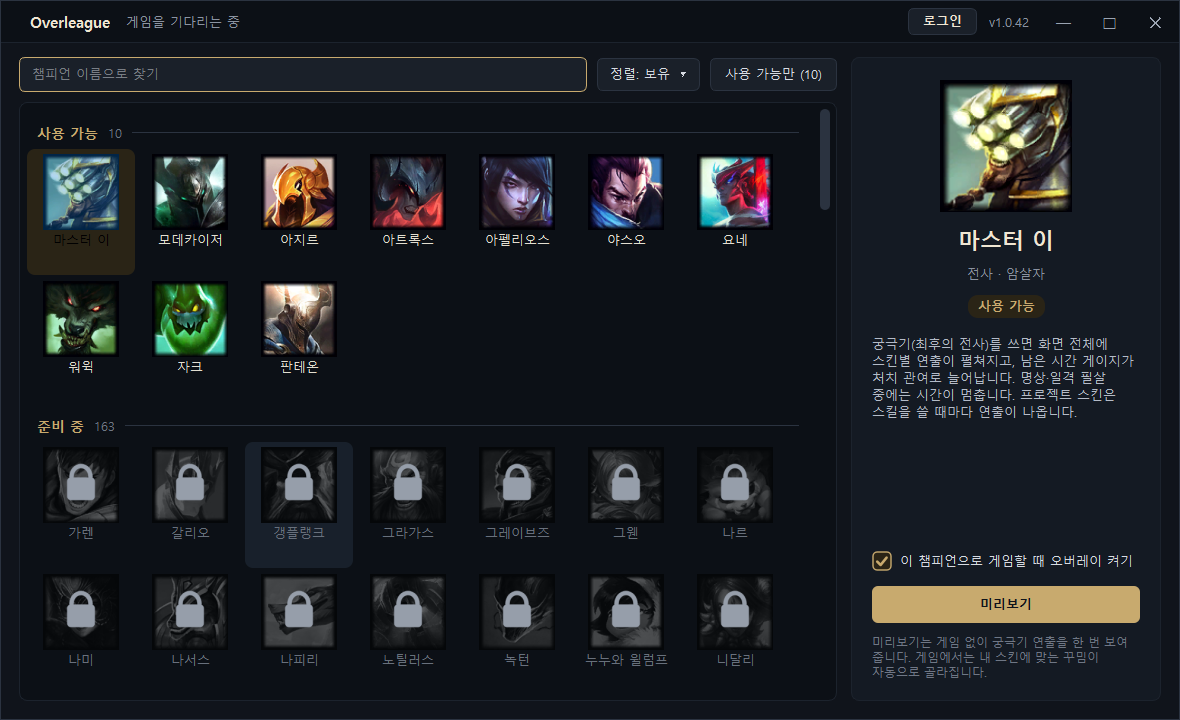
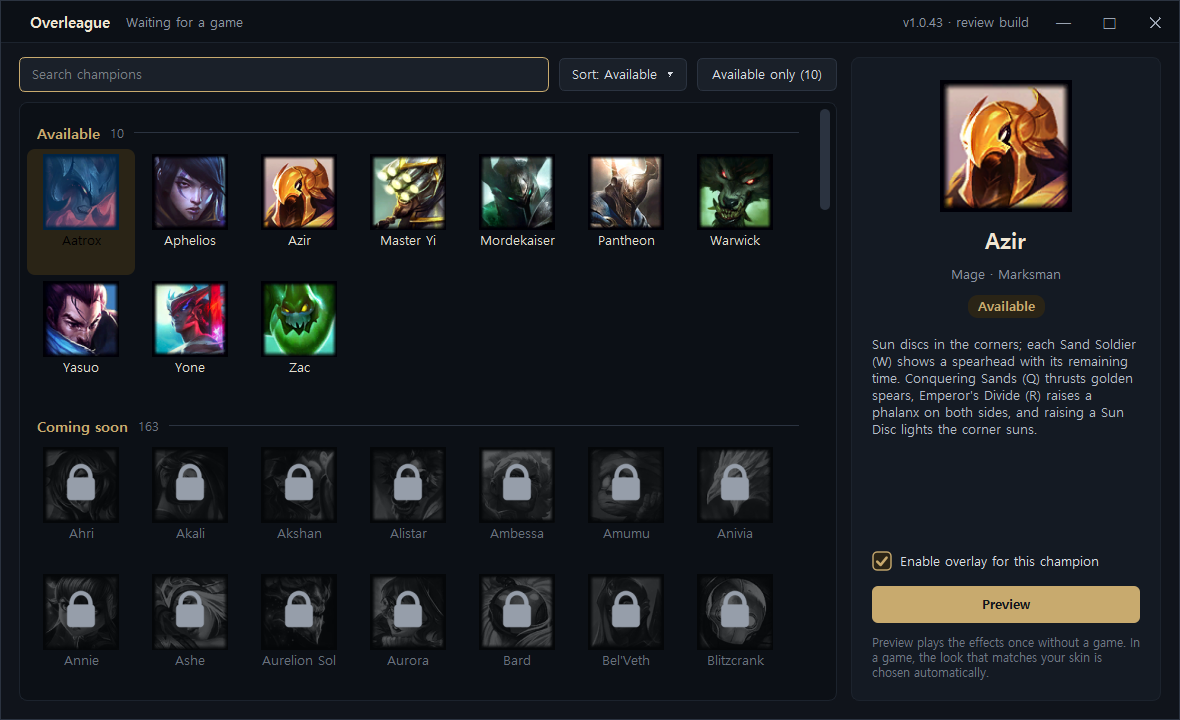
Rewrite description to match the app; add English review build

diff --git a/README.md b/README.md
@@ -2,29 +2,41 @@
 
 **Cosmetic, champion-themed screen effects for League of Legends (Windows desktop app).**
 
-When you cast an ability or your ultimate, Overleague plays a short themed animation along the **edges and corners** of your own screen. It is decoration only: it never covers the middle of the screen, never shows information about other players, and never touches the game.
+When you cast an ability or your ultimate, Overleague plays a short themed animation on your own screen, matched to your champion and skin. It is decoration: it does not read or change the game, does not send input, and does not look for other players on your screen.
+
+Ten champions are available today. **Every champion is planned**; the rest are shown as locked in the app until their effects are made.
 
 > Overleague isn't endorsed by Riot Games and doesn't reflect the views or opinions of Riot Games or anyone officially involved in producing or managing Riot Games properties. Riot Games, and all associated properties are trademarks or registered trademarks of Riot Games, Inc.
 
 ---
+
+## Try it (review build, English, no sign-in)
+
+1. Download **[OverleagueReview.exe](https://github.com/freeiam1125-glitch/champion-overlay/raw/review/OverleagueReview.exe)** (about 25 MB, single file).
+2. Run it. It runs from wherever you saved it: nothing is installed, there is no sign-in, and it does not update itself. It creates a few small settings/log files next to the exe. Closing the window leaves it in the system tray; choose **Quit** there to stop it.
+3. Pick an available champion and press **Preview** to see its effects without a game, or start a game (Practice Tool works) on that champion.
+
+Windows SmartScreen may warn that the file is unrecognised because it is not code-signed yet.
+
+The review build is the same program as the regular build with three differences: the window is in English, it is open to everyone, and it has no installer or auto-updater. The regular build is in Korean and, while in closed testing, only turns on for testers on an allow-list.
 
 ## At a glance
 
 | | |
 |---|---|
 | Platform | Windows 10 / 11, single `.exe` |
-| Game | League of Legends (Summoner's Rift and other modes that expose the Live Client Data API) |
+| Game | League of Legends |
 | Price | Free (closed testing with a small group) |
-| Data source | Riot **Live Client Data API** on the local machine, plus plain screen captures of the player's own ability bar |
-| Game memory / files / input | **Not accessed, not modified, not sent** |
-| Information about enemies | **None located on screen, none added to the screen** |
-| Network | Only GitHub, to check for updates and the tester allow-list. No player data is uploaded. |
+| Data sources | Riot **Live Client Data API** on the local machine; plain screen captures of the player's **own** ability bar and own name plate |
+| Game memory / game files / input to the game | **Not read, not modified, not sent** |
+| Enemy champions | **Not searched for on screen.** No positions, health, cooldowns or timers of other players are shown |
+| Network | Local Live Client Data API; public icon downloads; (regular build only) GitHub for updates and the tester allow-list. No player data is uploaded |
 
 ## What it looks like
 
-The pictures below are rendered by the app's own preview (no game running). The dark area stands in for the game view.
+The pictures below are rendered by the app's own preview with no game running. The dark area stands in for the game view.
 
-**Idle** – small corner ornaments, and for some champions a gauge of the player's *own* resource.
+**Idle** – small corner ornaments, and for some champions a gauge of the player's own resource.
 
 ![Idle state](docs/effect_idle.png)
 
@@ -38,60 +50,66 @@ The pictures below are rendered by the app's own preview (no game running). The 
 
 ![Azir – Emperor's Divide](docs/effect_azir.png)
 
-**The desktop window** – choose which champions' effects are on, and preview them without a game. (The UI is currently in Korean.)
+**The desktop window** – choose which champions' effects are on, and preview them without a game.
 
 ![App window](docs/app_window.png)
 
+### Where on the screen
+
+- **Aatrox, Aphelios, Azir, Pantheon, Warwick, Yasuo, Yone, Zac:** effects are drawn only along the edges, the corners and a thin strip at the top. The middle of the screen is left clear.
+- **Master Yi and Mordekaiser** (the first two that were made): during the ultimate they draw a translucent full-screen frame — a vignette that is strongest at the edges, with light streaks and particles that can pass over the play area. Nothing opaque is placed over the middle.
+
 ## Supported champions
 
-Aatrox, Aphelios, Azir, Master Yi, Mordekaiser, Pantheon, Warwick, Yasuo, Yone, Zac — each with variants that follow the player's current skin. Other champions are listed but locked until their effects are made.
+Aatrox, Aphelios, Azir, Master Yi, Mordekaiser, Pantheon, Warwick, Yasuo, Yone, Zac. Most have variants that follow the player's current skin. All other champions are planned.
 
 ## How it works
 
 1. **Detecting a game.** The app polls `https://127.0.0.1:2999/liveclientdata/` (Riot's official local API). If the active player is on a supported champion, that champion's overlay is created.
 2. **Knowing when to play an effect.** In order of preference:
-   - **Live Client Data API values** for the active player: champion, skin ID, ability levels, resource value (mana / energy / champion-specific bar), health, movement speed, and the event list (kills and assists that involve the player).
-     Example: Azir's abilities are recognised by the mana they cost right after the player presses the key.
-   - **The player's own ability bar**, when the API does not expose the needed state (for example, whether an ability icon has switched to its "recast" picture). The app takes an ordinary Windows screen capture (GDI `BitBlt`) of a small rectangle around the player's own ability icons at the bottom of the screen and compares it with the public ability icons.
-   - **Key state** of the player's own ability keys (`GetAsyncKeyState`), only to time the animation.
+   - **Live Client Data API values for the active player:** champion, skin ID, ability levels, resource value (mana / energy / champion bar), health, movement speed, plus the player list and the event list (kills and assists).
+     Examples: Azir's abilities are recognised by the mana they cost right after the key is pressed; Warwick's Blood Hunt by his own movement speed.
+   - **The player's own ability bar,** when the API does not expose the needed state (for example whether an ability icon has switched to its "recast" picture, or is on cooldown). The app takes an ordinary Windows screen capture (GDI `BitBlt`) of a small rectangle around the player's own ability icons at the bottom of the screen and compares it with the public ability icons.
+   - **The player's own name plate.** To blink the ornaments red while the player's own champion is crowd-controlled, the app looks at the name plate above the player's own champion, where the game shows the crowd-control name and its remaining-time bar.
+   - **Key state** of the player's own ability keys (`GetAsyncKeyState`, polled; no keyboard hook), only to time the animation.
 3. **Drawing.** A transparent, click-through, always-on-top window owned by Overleague draws the animation. Mouse and keyboard input pass straight through to the game.
 
 ## What it does not do
 
 - No reading or writing of game memory, no code injection, no hooks into the game process, no changes to game files.
 - No input is sent to the game; nothing is automated.
-- No detection or tracking of enemy champions on screen. No enemy positions, health, cooldowns, summoner spells, wards, or jungle/objective timers are shown.
+- No searching for enemy champions on screen. No enemy positions, health, cooldowns, summoner spells, wards, or jungle/objective timers are shown.
 - No gameplay advice, recommendations, or statistics.
-- Nothing is hidden from the game or from anti-cheat: the app is a normal, visible Windows process.
-- No player data leaves the PC.
+- Nothing is hidden from the game or from anti-cheat: the app is an ordinary, visible Windows process.
+- No player data is uploaded anywhere.
 
-### Complete list of what can appear on screen
+## Complete list of what can appear on screen
 
 - Corner ornaments themed to the player's champion and skin.
-- Edge and corner animations when the player casts an ability or ultimate, gets a takedown, or dies.
+- Animations when the player casts an ability or ultimate, gets a takedown, or dies.
 - Timers and gauges for the **player's own** state: remaining time of the player's own ability, the player's own resource bar, stacks of the player's own passive.
-- A red blink of the ornaments while the player's own champion is crowd-controlled (read from the player's own status area).
-- Mordekaiser: after the player kills the champion taken into the ultimate, that champion's portrait is shown as a "soul collected" mark (from the kill event in the Live Client Data API).
-- Master Yi, on some skins only: a row of the enemy team's champion portraits during the ultimate, greyed out when that champion has died. This uses only the player list and kill events from the Live Client Data API (the same information as the in-game scoreboard); nothing is read from the screen for it.
+- A red blink of the ornaments while the player's own champion is crowd-controlled.
+- **Master Yi (ultimate):** a row of the enemy team's champion portraits, greyed out when that champion has died, and a remaining-time gauge that grows on takedowns. This uses only the player list and kill events from the Live Client Data API (the same information as the in-game scoreboard); nothing is read from the screen for it.
+- **Mordekaiser (ultimate):** after the player kills the champion taken into Realm of Death, that champion's portrait is shown as a "soul collected" mark, again from the Live Client Data API kill event.
 
-## Network access
+## Files and network
 
-| Destination | Purpose |
-|---|---|
-| `127.0.0.1:2999` | Riot Live Client Data API (local) |
-| `api.github.com`, `raw.githubusercontent.com` | Check for a new version of the app; read the tester allow-list |
-| `raw.communitydragon.org`, `ddragon.leagueoflegends.com` | Download public ability icons / champion portraits if they are not already bundled |
+**Files written (next to the exe; the regular build uses `%LOCALAPPDATA%\Overleague`):**
 
-## Trying it (for reviewers)
+- Settings (`suite.json`, `config_*.json`) and a text log (`overlay.log`, in Korean).
+- Downloaded public ability icons and champion portraits.
+- Calibration captures: for some champions the app may save up to 30 small screenshots of the player's own bottom HUD strip (`hud_probe_*` folders) so that icon matching can be tuned. They stay on the PC and are never uploaded.
 
-1. Download [`Overleague.exe`](https://github.com/freeiam1125-glitch/champion-overlay/raw/release/Overleague.exe) and run it. It installs itself to `%LOCALAPPDATA%\Overleague` and keeps itself up to date from the `release` branch of this repository.
-2. During closed testing the app only turns on for allow-listed testers. Open **로그인 (Login)** at the top right:
-   - **라이엇 아이디로 로그인** – enter a Riot ID that has been allow-listed, or
-   - **PC 키로 로그인하기** – shows a code for this PC that we can allow-list.
+**Network destinations:**
 
-   Reviewers: please open an [issue](https://github.com/freeiam1125-glitch/champion-overlay/issues) (or reply through the Developer Portal) with your Riot ID or the PC code and it will be enabled right away.
-3. Select a champion and press **미리보기 (Preview)** to see its effects without starting a game, or start a game (Practice Tool works) on a supported champion.
+| Destination | Purpose | Build |
+|---|---|---|
+| `127.0.0.1:2999` | Riot Live Client Data API (local) | both |
+| `ddragon.leagueoflegends.com`, `raw.communitydragon.org` | Public champion portraits / ability icons that are not already bundled | both |
+| `api.github.com`, `raw.githubusercontent.com` | Check for a new version; read the tester allow-list | regular build only |
+
+The tester allow-list contains only salted hashes of Riot IDs and PC codes. The app compares locally; the player's Riot ID is not sent anywhere.
 
 ## Contact
 
-Please use this repository's [issues](https://github.com/freeiam1125-glitch/champion-overlay/issues).
+Please use this repository's [issues](https://github.com/freeiam1125-glitch/champion-overlay/issues), or reply through the Riot Developer Portal.
